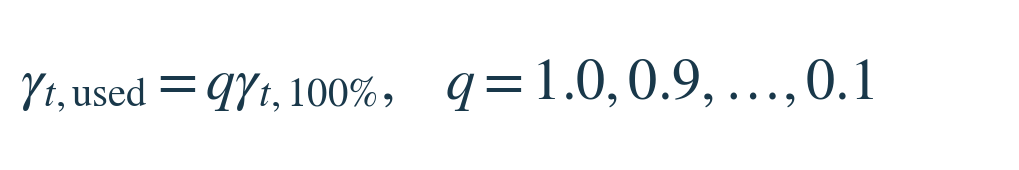
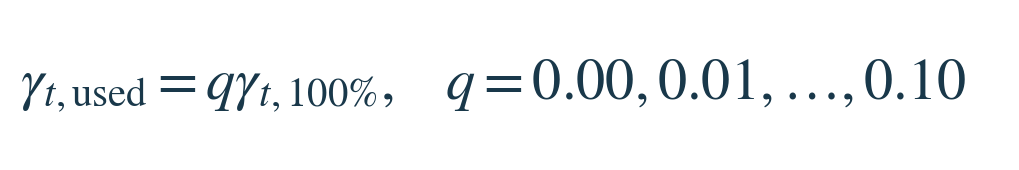
Search year effects from zero to ten percent in one-percent increments

Changed region(s): [[0.578, 0.3529, 0.9735, 0.5882], [0.5172, 0.3529, 0.5476, 0.5882]]

diff --git a/ship_type_year/tests/test_model.py b/ship_type_year/tests/test_model.py
@@ -28,12 +28,16 @@ class ModelTests(unittest.TestCase):
         for name,m in b['models'].items():
             if m['year_by_type']:
                 expected=[.08,-.11] if name==TOTAL_MODEL else [.12,-.2]
-                np.testing.assert_allclose(list(m['gamma'].values()),expected,atol=1e-10)
+                np.testing.assert_allclose(list(m['gamma_base'].values()),expected,atol=1e-10)
+                np.testing.assert_allclose(list(m['gamma'].values()),np.array(expected)*m['year_scale'],atol=1e-10)
+                self.assertLessEqual(m['year_scale'],.1)
             self.assertEqual(m['mean_years'],df.groupby('함분류')['취역연도'].mean().to_dict())
             self.assertNotIn('mean_year',m)
         out=predict(df,b)
-        for c in WEIGHTS:np.testing.assert_allclose(out[c+'_예측_tonne'],df[c],rtol=1e-9)
-        np.testing.assert_allclose(out[TOTAL_MODEL+'_예측_tonne'],df['총중량']-df['SWBS700'],rtol=1e-9)
+        for c in ['SWBS100','SWBS600']:np.testing.assert_allclose(out[c+'_예측_tonne'],df[c],rtol=1e-9)
+        self.assertTrue(np.isfinite(out[TOTAL_MODEL+'_예측_tonne']).all())
+        actual=[r['실제중량'] for r in b['models'][TOTAL_MODEL]['diagnostics']]
+        np.testing.assert_allclose(actual,df['총중량']-df['SWBS700'])
         np.testing.assert_allclose(out[TOTAL_SUM_COLUMN],out[[c+'_예측_tonne' for c in WEIGHTS]].sum(axis=1))
     def test_class_specific_ten_year_change_and_centering(self):
         df=fleet();b=train(df)
@@ -98,12 +102,12 @@ class ModelTests(unittest.TestCase):
         def capture(training,*args):
             m=original(training,*args);seen.append((set(training.index),m));return m
         with patch('model.fit_one',side_effect=capture):chosen=select_year_scale(df,base,'ship')
-        self.assertEqual(len(chosen['year_search']),10)
-        self.assertEqual([r['percent'] for r in chosen['year_search']],list(range(100,0,-10)))
+        self.assertEqual(len(chosen['year_search']),11)
+        self.assertEqual([r['percent'] for r in chosen['year_search']],list(range(0,11)))
         self.assertEqual(chosen['selection']['validation_n'],100)
         self.assertTrue(all(len(indices)<100 for indices,m in seen))
         for indices,m in seen:self.assertEqual(m['mean_years'],df.loc[list(indices)].groupby('함분류')['취역연도'].mean().to_dict())
-        rows=chosen['year_search'];winner=min(rows,key=lambda r:(round(r['validation_mape'],8),round(r['validation_rmse'],8),-r['percent']))
+        rows=chosen['year_search'];winner=min(rows,key=lambda r:(round(r['validation_mape'],8),round(r['validation_rmse'],8),r['percent']))
         self.assertEqual(chosen['year_scale'],winner['percent']/100)
         self.assertEqual(len(chosen['cv_predictions']),100)
         for r in chosen['cv_predictions']:self.assertNotIn(int(r['엑셀 행'])-2,seen[int(r['fold'])-1][0])
@@ -112,7 +116,7 @@ class ModelTests(unittest.TestCase):
         from year_search import select_year_scale,validation_splits
         df=fleet();base=fit_one(df,'SWBS200',TERMS[200])
         failed=select_year_scale(df,base,'group')
-        self.assertEqual(failed['year_scale'],1)
+        self.assertEqual(failed['year_scale'],0)
         self.assertIn('검증 불가',failed['selection']['status'])
         self.assertTrue(all(r['validation_mape'] is None for r in failed['year_search']))
         df['함급']=[f'class-{i//10}' for i in range(100)]
@@ -142,6 +146,21 @@ class ModelTests(unittest.TestCase):
         df=fleet();mask=df['함분류']=='호위함'
         df.loc[mask,['길이','폭','깊이']]=[100,15,8]
         with self.assertRaisesRegex(ValueError,'호위함'):train(df)
+    def test_zero_scale_roundtrip_and_no_year_influence(self):
+        df=fleet();b=train(df,validation_mode='group') # No class column: explicit unvalidated 0% fallback.
+        for name,m in b['models'].items():
+            if m['year_by_type']:
+                self.assertEqual(m['year_scale'],0)
+                self.assertTrue(all(v==0 for v in m['gamma'].values()))
+                self.assertEqual([r['percent'] for r in m['year_search']],list(range(11)))
+                self.assertEqual(sum(bool(r['selected']) for r in m['year_search']),1)
+        earlier=df.iloc[[0]].copy();later=earlier.copy();later['취역연도']+=30
+        for name in b['models']:
+            np.testing.assert_allclose(predict(earlier,b)[name+'_예측_tonne'],predict(later,b)[name+'_예측_tonne'])
+        with tempfile.TemporaryDirectory() as tmp:
+            p=Path(tmp)/'zero.xlsx';save_model_excel(p,b);loaded=load_model_excel(p)
+            self.assertEqual(loaded['models']['SWBS200']['year_scale'],0)
+            np.testing.assert_allclose(predict(df,b)[TOTAL_SUM_COLUMN],predict(df,loaded)[TOTAL_SUM_COLUMN],rtol=1e-12)
     def test_missing_year_variation_is_explicit(self):
         df=fleet();df.loc[df['함분류']=='호위함','취역연도']=2000
         with self.assertRaisesRegex(ValueError,'호위함'):train(df)
@@ -157,7 +176,7 @@ class ModelTests(unittest.TestCase):
             self.assertEqual(loaded['models']['SWBS100']['size_alpha'],b['models']['SWBS100']['size_alpha'])
             self.assertAlmostEqual(loaded['models']['SWBS100']['volume_reference'],b['models']['SWBS100']['volume_reference'])
             self.assertIn('αt',coefficients(b))
-            self.assertEqual(len(loaded['models']['SWBS200']['year_search']),10)
+            self.assertEqual(len(loaded['models']['SWBS200']['year_search']),11)
             self.assertEqual(loaded['models']['SWBS200']['year_scale'],b['models']['SWBS200']['year_scale'])
     def test_patrol_pooling_and_input_exclusions(self):
         df=fleet();df.loc[df['함분류']=='호위함','함분류']='초계정'

diff --git a/ship_type_year/equation_guide.py b/ship_type_year/equation_guide.py
@@ -2,8 +2,8 @@
 YEAR = r'\exp\!\left[\gamma_t\frac{Y-\bar{Y}_t}{10}\right]'
 COMMON = 'K: 해당 모형의 기본 중량계수\nDt: 해당 모형의 함종별 설계계수\nC: 역변환 편향 보정계수(K와 별도 적용)'
 GUIDE_ROWS = [
-    ('year_scale','Year Effect Search / 연도 효과 자동 선택',r'\gamma_{t,\mathrm{used}}=q\gamma_{t,100\%},\quad q=1.0,0.9,\ldots,0.1',
-     '모형별로 연도 효과 100%~10%를 비교합니다.\n각 후보에서 K·α·β·Dt와 보정 C를 다시 추정합니다.\n검증 MAPE 최소 후보를 선택하고 RMSE를 함께 표시합니다.\n표의 적용 γt에는 선택 비율이 이미 반영되어 있습니다.\n다시 q를 곱하지 않습니다.'),
+    ('year_scale','Year Effect Search / 연도 효과 자동 선택',r'\gamma_{t,\mathrm{used}}=q\gamma_{t,100\%},\quad q=0.00,0.01,\ldots,0.10',
+     '모형별로 연도 효과 0%~10%(1% 간격)를 비교합니다.\n각 후보에서 K·α·β·Dt와 보정 C를 다시 추정합니다.\n검증 MAPE 최소 후보를 선택하고 RMSE를 함께 표시합니다.\n표의 적용 γt에는 선택 비율이 이미 반영되어 있습니다.\n0%는 연도 효과를 제거합니다. 다시 q를 곱하지 않습니다.'),
     ('swbs100', 'SWBS100 / 선체구조', r'W_{100}=K\left(\frac{LBD}{V_0}\right)^{\alpha_t}D_t C',
      'L·B·D: 길이·폭·깊이(m)\nαt: 해당 함종의 규모 회귀지수\nV0: 전체 학습 LBD의 기하평균(m³)\nK·Dt는 공통 기준 규모 V0에서의 중량 수준입니다.\n'+COMMON+'\n이 식에는 취역연도 항이 없습니다.'),
     ('swbs200', 'SWBS200 / 추진계통', r'W_{200}=KP^{\alpha}D_t '+YEAR+r' C',
@@ -28,7 +28,7 @@ GUIDE_ROWS = [
 
 TABLE_EXPLANATION = [
     ('100계열 함종별 규모 효과', '100계열은 함종별 αt를 따로 학습합니다. 같은 함종의 LBD가 서로 다른 실적함이 최소 2척 필요하며 전체 표본은 계수 수보다 많아야 합니다. V0는 전체 학습 규모의 기하평균이며 새로운 함정에서도 학습 때 저장한 같은 값을 사용합니다. 규모를 정규화해 Dt를 공통 규모에서 비교할 수 있게 했습니다. αt=0이면 그 함종의 선체구조 중량은 규모에 따라 변하지 않습니다. 새 함급에 대한 정확도 개선은 별도 검증이 필요합니다.'),
-    ('후보 선택과 검증 범위', '기본은 함종 내 척별 교차검증이며 DDG/FFG 함유형을 함급으로 취급하지 않습니다. 함급 열이 있으면 함급별 검증을 선택할 수 있습니다. 각 검증 분할의 평균연도·기본 γt·C는 학습 부분으로만 추정합니다. 자료가 부족한 함종이나 실패한 분할은 검증에서 제외하고 검증 척수를 표시합니다. 검증 불가 시 100%를 유지하며 학습 오차로 최적값을 대신 고르지 않습니다. 선택에 사용한 검증 점수는 최종 독립 시험 성능이 아닙니다.'),
+    ('후보 선택과 검증 범위', '기본은 함종 내 척별 교차검증이며 DDG/FFG 함유형을 함급으로 취급하지 않습니다. 함급 열이 있으면 함급별 검증을 선택할 수 있습니다. 각 검증 분할의 평균연도·기본 γt·C는 학습 부분으로만 추정합니다. 자료가 부족한 함종이나 실패한 분할은 검증에서 제외하고 검증 척수를 표시합니다. 검증 불가 시 0%를 임시 적용했다고 표시하며 학습 오차로 최적값을 대신 고르지 않습니다. 선택에 사용한 검증 점수는 최종 독립 시험 성능이 아닙니다.'),
     ('700계열 제외 중량', '700계열은 추정하지 않습니다. 계열 합계는 100~600만 합산하며 경하중량 직접 회귀는 원래 실적 총 경하중량에서 실적 SWBS700을 뺀 값을 학습합니다. 입력 총중량에는 이미 700을 뺀 값을 넣지 마세요. SWBS700 입력은 공제용이며 0을 허용합니다.'),
     ('함종별 연도 보정', '각 계열 및 총 경하중량 모형에서 함종별 γt를 서로 독립적으로 추정합니다. 기준연도도 유효 학습자료의 해당 함종 평균입니다. 각 함종에 서로 다른 취역연도가 2개 이상 있어야 하며, 전체 자료가 계수 수보다 많고 설계행렬이 full rank여야 합니다. 자료가 부족하면 임의의 공통 연도 효과로 대체하지 않고 학습 오류를 안내합니다.'),
     ('Dt 비교 조건', 'Dt는 각 함종을 자신의 평균 취역연도에 놓았을 때의 상대 수준입니다. 같은 달력 연도에서 함종을 비교하려면 Dt뿐 아니라 각 함종의 연도 보정값 F_t(Y)도 함께 곱해 비교해야 합니다.'),

diff --git a/ship_type_year/year_search.py b/ship_type_year/year_search.py
@@ -1,6 +1,6 @@
 """Fold-local baseline estimation and constrained year-effect scale search."""
 import numpy as np
-SCALES=tuple(i/10 for i in range(10,0,-1))
+SCALES=tuple(i/100 for i in range(0,11))
 
 def metrics(actual,predicted):
     if not np.isfinite(predicted).all() or (predicted<=0).any():raise ValueError('유효하지 않은 예측값')
@@ -62,7 +62,7 @@ def select_year_scale(df,baseline,validation_mode='ship'):
     n=sum(len(te) for _,_,te,_ in folds);usable=len(folds)>=2 and n>=3
     reason=reason or ' / '.join(failures[:3])
     if n<len(df):reason=(reason+' / ' if reason else '')+f'자료 부족 또는 분할 실패로 {len(df)-n}척은 검증하지 못했습니다.'
-    if not usable:reason=reason or '유효 검증이 2회 이상·3척 이상이어야 합니다. 100% 유지.'
+    if not usable:reason=reason or '유효 검증이 2회 이상·3척 이상이어야 합니다. 0% 임시 적용.'
     rows=[];candidates={};cv={}
     for q in SCALES:
         r={'percent':int(round(q*100)),'train_mape':None,'train_rmse':None,'validation_mape':None,'validation_rmse':None,'validation_n':n,'folds':len(folds),'selected':False,'error':''}
@@ -79,9 +79,9 @@ def select_year_scale(df,baseline,validation_mode='ship'):
         rows.append(r)
     valid=[r for r in rows if r['validation_mape'] is not None and not r['error']]
     if valid:
-        best=min(valid,key=lambda r:(round(r['validation_mape'],8),round(r['validation_rmse'],8),-r['percent']));q=best['percent']/100
+        best=min(valid,key=lambda r:(round(r['validation_mape'],8),round(r['validation_rmse'],8),r['percent']));q=best['percent']/100
         status='검증 선택' if n==len(df) else '부분 검증 선택'
-    else:q=1.0;status='검증 불가 · 100% 유지';reason=reason or '모든 후보의 검증 계산 실패'
+    else:q=0.0;status='검증 불가 · 0% 임시 적용';reason=reason or '모든 후보의 검증 계산 실패'
     result=candidates.get(q) or refit_scale(df,baseline,q)
     for r in rows:r['selected']=r['percent']==int(round(q*100))
     best=next(r for r in rows if r['selected'])

diff --git a/ship_type_year/app.py b/ship_type_year/app.py
@@ -201,7 +201,7 @@ class App:
         self.guide_tab=tk.Frame(tabs,bg=WHITE);tabs.insert(1,self.guide_tab,text='Equations & Guide')
         self.build_guide(self.guide_tab)
         self.search_tab=tk.Frame(tabs,bg=WHITE);tabs.insert(2,self.search_tab,text='Year Effect Search')
-        self.search_note=tk.StringVar(value='연도 효과 100%~10% 후보를 비교합니다.')
+        self.search_note=tk.StringVar(value='연도 효과 0%~10% (1% 간격) 후보를 비교합니다.')
         tk.Label(self.search_tab,textvariable=self.search_note,bg=WHITE,fg=INK,font=(KO,10),wraplength=930,justify='left',anchor='w').pack(fill='x',padx=10,pady=8)
         self.search_graph=tk.Canvas(self.search_tab,bg='#f3f7fa',height=115,highlightthickness=0)
         self.search_graph.pack(side='bottom',fill='x',padx=10,pady=5)
@@ -331,7 +331,7 @@ class App:
         for key,color in [('train_mape','#8094a0'),('validation_mape',TEAL)]:
             points=[]
             for r in sorted(rows,key=lambda v:v['percent']):
-                x=left+(r['percent']-10)/90*(right-left)
+                x=left+r['percent']/10*(right-left)
                 if key=='train_mape':c.create_text(x,bottom+14,text=str(r['percent'])+'%',font=(EN,9),fill=MUTED)
                 if r.get(key) is None:continue
                 y=bottom-r[key]/ceiling*(bottom-top);points.extend([x,y]);c.create_oval(x-3,y-3,x+3,y+3,fill=color,outline='')
@@ -417,7 +417,7 @@ class App:
         p=self.choose()
         if not p:return
         validation='group' if self.validation_mode.get().startswith('함급') else 'ship'
-        self.busy=True; self.status.set('TRAINING  |  100%~10% 후보 재학습·교차검증 중…')
+        self.busy=True; self.status.set('TRAINING  |  0%~10% (1% 간격) 후보 재학습·교차검증 중…')
         state={}
         def worker():
             try:

diff --git a/ship_type_year/tests/test_ui.py b/ship_type_year/tests/test_ui.py
@@ -20,10 +20,13 @@ class UITests(unittest.TestCase):
                 deadline=time.monotonic()+30
                 while app.busy and time.monotonic()<deadline:root.update();time.sleep(.02)
                 self.assertFalse(app.busy);self.assertIsNotNone(app.bundle)
-                self.assertEqual(len(app.search_tree.get_children()),10)
+                self.assertEqual(len(app.search_tree.get_children()),11)
                 self.assertTrue(app.bundle['models']['SWBS100']['size_by_type'])
                 self.assertIn('기준LBD(m³)',app.coeff_tree['columns'])
                 self.assertEqual(app.bundle['models']['SWBS200']['selection']['basis'],'ship')
+                self.assertLessEqual(app.bundle['models']['SWBS200']['year_scale'],.1)
+                self.assertEqual(app.search_tree.item(app.search_tree.get_children()[0])['values'][0],0)
+                self.assertEqual(app.search_tree.item(app.search_tree.get_children()[-1])['values'][0],10)
                 for c,var in app.inputs.items():var.set(str(df.iloc[0][c]))
                 app.inputs['함분류'].set('호위함');app.inputs['취역연도'].set('')
                 app.open_estimation();app.estimate();root.update()

diff --git a/ship_type_year/model.py b/ship_type_year/model.py
@@ -451,7 +451,8 @@ def load_model_excel(path):
                 bounds[r['Variable']]=[lo,hi]
             if set(bounds)!=set(BASE[1:]):raise ValueError('학습 범위가 누락되었습니다.')
             counts={r['ShipType']: integer(r['Count'],'Count') for _,r in group.iterrows() if pd.notna(r['Count'])}
-            scale=finite(row['YearScale'],'YearScale',True) if year_by_type and 'YearScale' in row and pd.notna(row['YearScale']) else (1.0 if year_by_type else None)
+            scale=finite(row['YearScale'],'YearScale') if year_by_type and 'YearScale' in row and pd.notna(row['YearScale']) else (1.0 if year_by_type else None)
+            if scale is not None and not 0<=scale<=1:raise ValueError('YearScale은 0~1 범위여야 합니다.')
             base_gamma={r['ShipType']:finite(r.get('BaseGamma',r['Gamma']),'BaseGamma') for _,r in group.iterrows()} if year_by_type else {}
             size_by_type=bool(row.get('SizeByType',False)) if pd.notna(row.get('SizeByType',False)) else False
             if size_by_type and name!='SWBS100':raise ValueError('함종별 규모 지수는 SWBS100에서만 지원합니다.')

diff --git a/ship_type_year/README.md b/ship_type_year/README.md
@@ -30,17 +30,17 @@ Dt는 각 함종의 자체 평균연도에서의 상대 수준입니다. 같은 
 
 입력 양식의 SWBS700은 공제용 실제 중량으로 유지하며 0을 허용합니다. 총중량에는 SWBS700 포함 원래 경하중량을 입력하세요. 이미 공제한 중량을 넣으면 이중 공제가 되므로 사용하지 마세요. 총중량−SWBS700이 0 이하인 행은 제외합니다. 기존 700 포함 모델과 혼용하지 않도록 모델 형식을 변경했습니다. 전체 실적함 엑셀로 다시 학습하세요.
 
-## 연도 효과 100%~10% 자동 선택
+## 연도 효과 0%~10% 자동 선택
 
-Input File Upload 후 200·300·400·500 및 700 제외 경하중량 직접 회귀에서 10개 후보를 비교합니다. 각 모형의 원래 함종별 γt를 q(1.0~0.1)배로 고정하고, 나머지 K·크기/출력 지수·Dt와 잔차 기반 C를 다시 추정합니다. 이는 γt만 고정 비율로 변경하고 나머지를 그대로 두는 방식이나 Ridge 벌점 방식과 다릅니다.
+Input File Upload 후 200·300·400·500 및 700 제외 경하중량 직접 회귀에서 11개 후보를 비교합니다. 각 모형의 원래 함종별 γt를 q(0.00~0.10, 0.01 간격)배로 고정하고, 나머지 K·크기/출력 지수·Dt와 잔차 기반 C를 다시 추정합니다. 이는 γt만 고정 비율로 변경하고 나머지를 그대로 두는 방식이나 Ridge 벌점 방식과 다릅니다.
 
 기본 검증은 함종 내 척별 최대 5분할입니다. 함유형은 DDG/FFG 분류 코드이므로 함급으로 사용하지 않습니다. 함급별 검증을 원하면 입력 엑셀에 별도 함급 열을 제공하고 업로드 전에 검증 방식을 변경하세요. 동일 함급 자매함이 척별 분할 양쪽에 있으면 신규 함급에 대한 성능을 낙관적으로 볼 수 있습니다.
 
-각 분할의 기본 γt·평균연도·다른 계수·C는 학습 부분만 이용합니다. 모든 후보를 같은 유효 검증 분할로 비교하고 검증 자료를 합쳐 계산한 MAPE를 최소화합니다. 동률은 RMSE, 수치적으로 같은 점수는 더 큰 비율을 우선합니다. 비율은 모형별 하나를 선택하며 각 함종의 원래 γt에 공통 적용합니다. 선택 후 전체 데이터로 다시 추정한 계수를 최종 사용합니다.
+각 분할의 기본 γt·평균연도·다른 계수·C는 학습 부분만 이용합니다. 모든 후보를 같은 유효 검증 분할로 비교하고 검증 자료를 합쳐 계산한 MAPE를 최소화합니다. 동률은 RMSE, 수치적으로 같은 점수는 더 작은 비율을 우선합니다. 비율은 모형별 하나를 선택하며 각 함종의 원래 γt에 공통 적용합니다. 선택 후 전체 데이터로 다시 추정한 계수를 최종 사용합니다.
 
-3척 미만 함종은 척별 검증에서 학습 부분에만 남깁니다. 자료 부족·연도 다양성 부족·rank 오류 등으로 실패한 분할은 제외하고 검증 척수·분할 수·이유를 표시합니다. 유효 검증이 2회 미만 또는 3척 미만이면 검증 불가로 100%를 유지합니다. 부분 검증의 선택 비율은 검증되지 않은 함종에도 적용되므로 범위를 확인하세요. 검증 점수는 비율 선택에 사용한 점수이며 최종 독립 시험 성능이 아닙니다.
+3척 미만 함종은 척별 검증에서 학습 부분에만 남깁니다. 자료 부족·연도 다양성 부족·rank 오류 등으로 실패한 분할은 제외하고 검증 척수·분할 수·이유를 표시합니다. 유효 검증이 2회 미만 또는 3척 미만이면 검증 불가로 0%를 임시 적용합니다. 부분 검증의 선택 비율은 검증되지 않은 함종에도 적용되므로 범위를 확인하세요. 검증 점수는 비율 선택에 사용한 점수이며 최종 독립 시험 성능이 아닙니다.
 
-Year Effect Search 탭에서 100%~10%의 학습/검증 MAPE·RMSE, 선택 비율, 검증 척수, 그래프를 봅니다. Fit Statistics에서는 계열별 선택 비율과 검증 점수를 함께 봅니다. Coefficients의 기본 γt와 적용 γt는 구분되며 예측에는 이미 축소된 적용 γt를 한 번만 사용합니다. 엑셀 모델과 결과 파일의 Year Search, Year Selection, Validation Predictions 시트에 후보 비교 및 선택 후보의 검증 예측을 저장합니다. 100·600에는 연도 항이 없어 이 탐색을 적용하지 않습니다. 700은 추정하지 않습니다.
+Year Effect Search 탭에서 0%~10%의 학습/검증 MAPE·RMSE, 선택 비율, 검증 척수, 그래프를 봅니다. Fit Statistics에서는 계열별 선택 비율과 검증 점수를 함께 봅니다. Coefficients의 기본 γt와 적용 γt는 구분되며 예측에는 이미 축소된 적용 γt를 한 번만 사용합니다. 엑셀 모델과 결과 파일의 Year Search, Year Selection, Validation Predictions 시트에 후보 비교 및 선택 후보의 검증 예측을 저장합니다. 100·600에는 연도 항이 없어 이 탐색을 적용하지 않습니다. 700은 추정하지 않습니다.
 
 ## 100계열 함종별 규모 효과
 
@@ -49,3 +49,5 @@ Year Effect Search 탭에서 100%~10%의 학습/검증 MAPE·RMSE, 선택 비율
 Coefficients와 엑셀의 LBD 지수는 100계열에서 해당 함종의 αt를 나타냅니다. 기준LBD 열도 함께 표시합니다. K·Dt는 공통 기준 규모 V0에서의 수준이며, 서로 다른 αt 때문에 V0가 아닌 규모에서는 Dt만으로 함종 간 중량 비율을 비교할 수 없습니다. Ship Types 시트에 SizeAlpha, Model Parameters에 SizeByType·VolumeReference를 저장하고 예측 시 사용합니다. 다른 계열의 크기·출력 지수와 함종별 연도 보정·연도 효과 자동 탐색·700 제외 방식은 유지합니다. 100계열에 연도 항을 추가하지 않았습니다.
 
 100계열의 함종별 규모 지수는 전체 유효 실적함으로 학습한 값이며, Year Effect Search의 교차검증은 연도 효과 선택용입니다. 새 함급에서의 규모 모형 정확도 개선은 별도 검증자료로 확인하세요. 함종별 자료가 적으면 αt가 불안정할 수 있습니다. 기존 저장 모델을 자동 변환하지 않으므로 전체 실적함을 다시 업로드해 학습하세요.
+
+연도 효과는 0%, 1%, 2%, …, 10%의 11개 후보에서 선택합니다. 0%에서는 모든 γt가 0이 되고 연도 배율은 1입니다. 나머지 계수와 C는 0% 후보에서도 다시 추정합니다. 검증 불가 시 탐색 범위 밖의 100%로 되돌아가지 않고 0% 임시 적용 상태를 표시합니다. 이를 검증 최적값으로 주장하지 않습니다. 기존 모델 저장 파일의 0% 값도 정상적으로 읽고 보존합니다.
